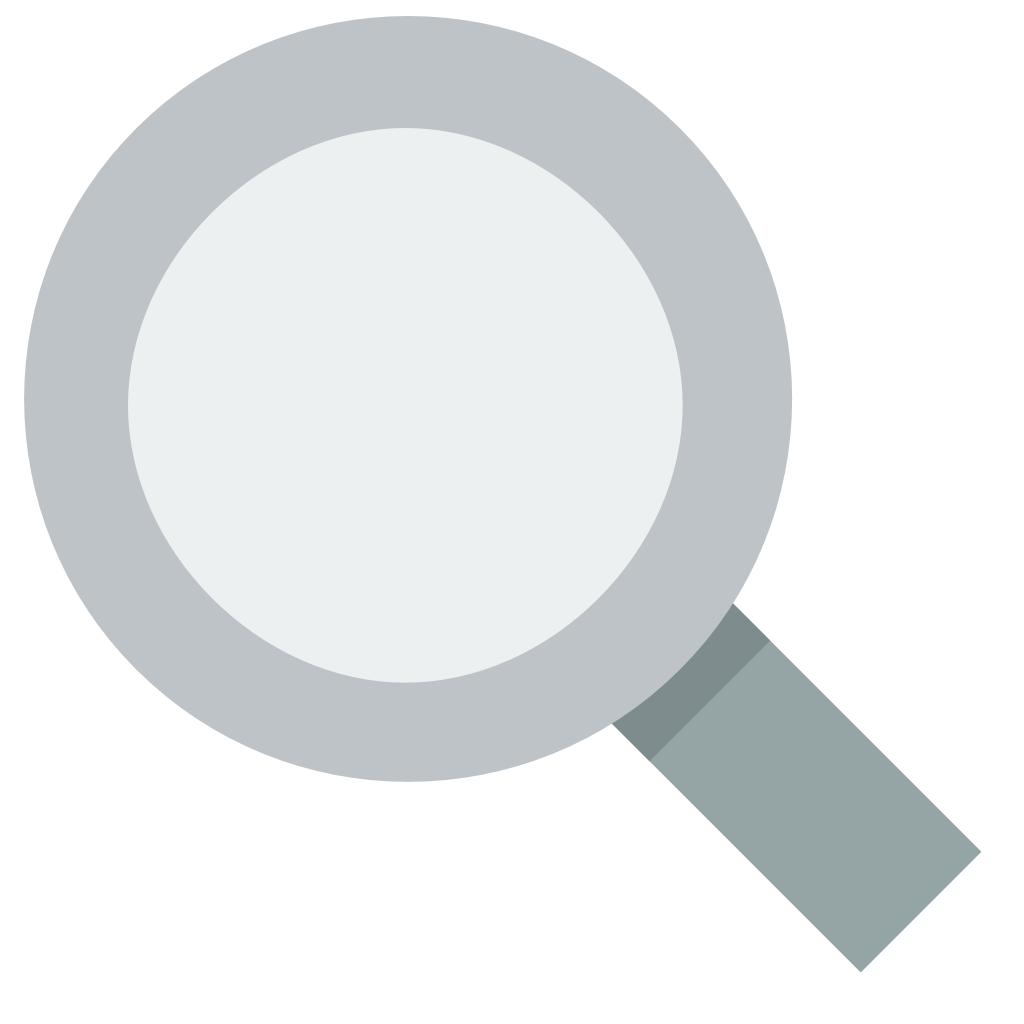
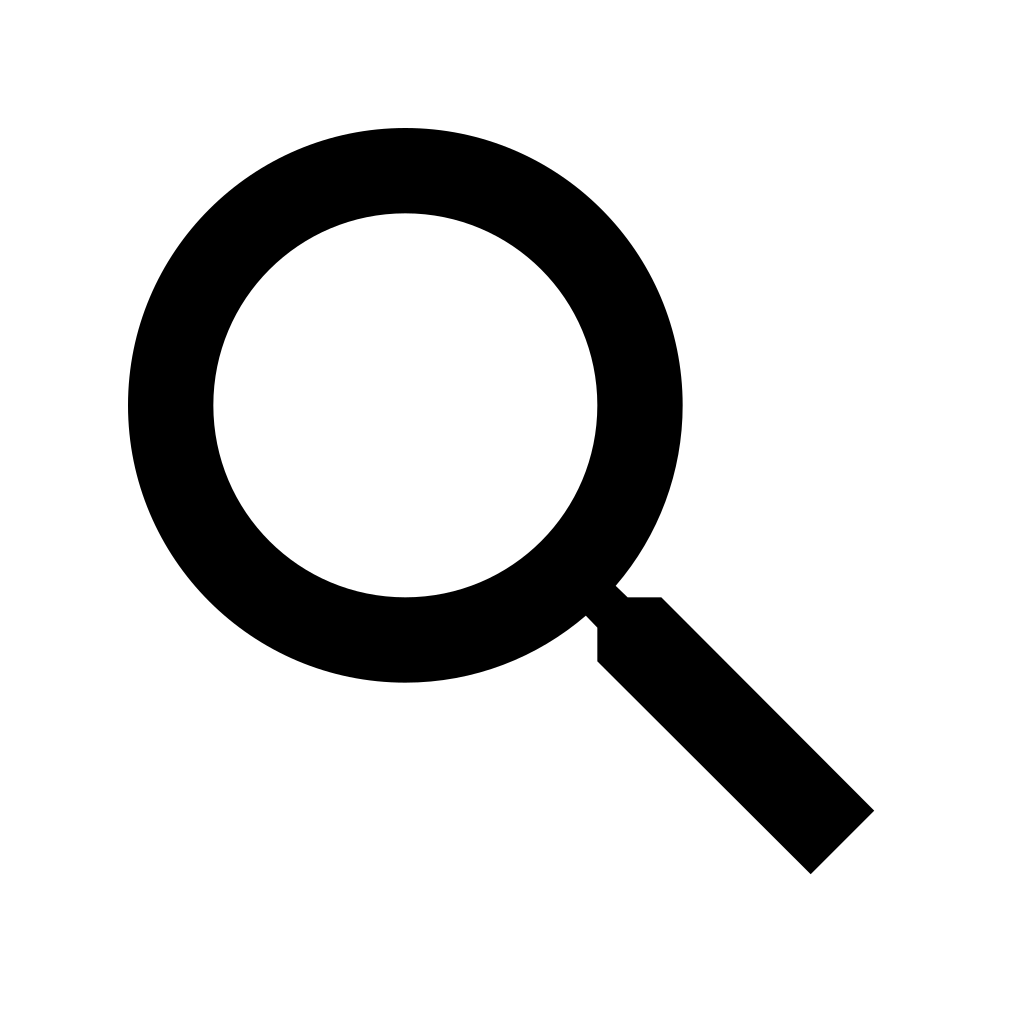
adds new styling to proejcts page

diff --git a/src/components/Post/Project.css b/src/components/Post/Project.css
@@ -1,4 +1,4 @@
-.post {
+.project {
     width: 300px;
     opacity: 0;
     display: flex;
@@ -10,17 +10,17 @@
     margin-bottom: 10px;
 }
 
-.post-img {
+.project-img {
     width: 300px;
 }
 
-.post p {
+.project p {
     padding: 0 20px;
     font-size: 20px;
     line-height: 1.5;
 }
 
-.post-title {
+.project-title {
     display: flex;
     align-items: center;
     gap: 10px;
@@ -29,12 +29,12 @@
 
 }
 
-.post-title h1 {
+.project-title h1 {
     font-size: 35px;
     margin: 0;
 }
 
-.post-title p {
+.project-title p {
     height: 40px;
     width: 40px;
     display: flex;
@@ -47,47 +47,49 @@
     border-radius: 50%;
 }
 
-.post-info {
+.project-info {
     display: flex;
     flex-direction: column;
     gap: 10px;
     margin: 20px 0;
 }
 
-.post-tools {
-    color: #778bb1;
+.project-tools {
+    color: #fff;
     margin: 0 20px;
-    padding: 10px !important;
-    background-color: #dce9ff;
+    padding: 10px 15px !important;
+    background-color: #5ebcffbd;
     border-radius: 15px;
     text-align: justify;
 }
 
-.post-description {
+.project-description {
     height: auto;
     text-align: center;
     margin: 0;
 }
 
-.post-bottom {
+.project-bottom {
     padding-bottom: 20px;
 }
 
-.post-buttons {
+.project-buttons {
     width: 100%;
     display: flex;
+    padding: 0 20px;
     justify-content: center;
     align-items: center;
     gap: 10px;
 }
 
-.post-buttons a {
+.project-buttons a {
+    flex: 1;
+    display: flex;
     text-decoration: none;
-
 }
 
-.post-buttons button {
-    width: 130px;
+.project-buttons button {
+    flex: 1;
     height: 65px;
     display: flex;
     justify-content: center;
@@ -101,76 +103,76 @@
     font-weight: bold;
 }
 
-.post-buttons img {
+.project-buttons img {
     width: 30px;
     height: auto;
 }
 
 @media only screen and (min-width: 360px) {
-    .post {
+    .project {
         width: 320px;
         margin-bottom: 30px;
     }
 
-    .post-img {
+    .project-img {
         width: 320px;
     }
 
-    .post-description {
+    .project-description {
         text-align: justify;
     }
 
-    .post-buttons button {
+    .project-buttons button {
         width: 140px;
     }
 }
 
 @media only screen and (min-width: 450px) {
-    .post {
+    .project {
         width: 400px;
     }
 
-    .post-img {
+    .project-img {
         width: 400px;
     }
 
-    .post-buttons button {
+    .project-buttons button {
         width: 140px;
         height: 65px;
         font-size: 26px;
     }
 
-    .post-buttons img {
+    .project-buttons img {
         width: 30px;
     }
 
-    .post-buttons {
+    .project-buttons {
         gap: 30px
     }
 }
 
 @media only screen and (min-width: 600px) {
-    .post {
+    .project {
         width: 500px;
     }
 
-    .post-img {
+    .project-img {
         width: 500px;
     }
 
-    .post-buttons button {
+    .project-buttons button {
         width: 180px;
         height: 75px;
         font-size: 30px;
     }
 
-    .post-buttons img {
+    .project-buttons img {
         width: 40px;
     }
 }
 
 @media only screen and (min-width: 1160px) {
-    .post-info {
+    .project-info {
         height: 450px;
     }
 }

diff --git a/src/components/Post/Project.jsx b/src/components/Post/Project.jsx
@@ -1,0 +1,33 @@
+import "./Project.css"
+
+import Flare from "../Flare/Flare"
+
+export default function Project({ project, idx }) {
+    return (
+        <section className="project" style={{ animation: `rise 1s forwards ${idx - (.75 * idx)}s` }}>
+            <div className="project-top">
+                <div className="project-title">
+                    <h1 className="purple-text">{project.name}</h1>
+                </div>
+                <img className="project-img" src={require(`../../assets/${project.image}`)} />
+                <Flare side={'inline'} />
+                <div className="project-info">
+                    <p className="project-tools blue">{project.tools}</p>
+                    <p className="project-description">{project.description}</p>
+                </div>
+            </div>
+            <div className="project-bottom">
+                <div className="project-buttons">
+                    {project.live ?
+                        <a href={project.live} target="_blank">
+                            <button className='pink'>Live</button>
+                        </a>
+                        : null}
+                    <a href={project.repo} target="_blank">
+                        <button className='purple'>GitHub</button>
+                    </a>
+                </div>
+            </div>
+        </section>
+    )
+}

diff --git a/src/pages/Projects/Projects.jsx b/src/pages/Projects/Projects.jsx
@@ -1,7 +1,7 @@
 import "./Projects.css"
 import { useState, useEffect } from "react";
 
-import Post from "../../components/Post/Post";
+import Post from "../../components/Post/Project";
 import Flare from "../../components/Flare/Flare";
 import Loading from "../Loading/Loading";
 
@@ -27,7 +27,7 @@ function Projects({ page, setPage }) {
     return (
         <section className="Projects">
             <div className="project-header">
-                <h1 className="pink-text">Projects</h1>
+                <h1 className="purple-text">Projects</h1>
                 <Flare side={'right'} />
             </div>
             <div className="feed">

diff --git a/src/pages/Projects/Projects.css b/src/pages/Projects/Projects.css
@@ -9,13 +9,16 @@
     align-items: center;
     background-color: #fff;
     box-shadow: 0px 2px 2px #00000030;
+    margin: 20px 40px;
     padding: 20px 40px;
-    gap: 10px
+    gap: 10px;
+    border-radius: 15px;
 }
 
 .project-header h1 {
     font-size: 40px;
     margin: 0;
+    text-shadow: 0px 2px 2px #00000040;
 }
 
 .feed {

diff --git a/src/pages/Home/Home.css b/src/pages/Home/Home.css
@@ -45,8 +45,9 @@
 .fake-search {
     width: 20px;
     height: 20px;
-    margin: 0 20px 0 0;
+    margin: 5px 20px 0 0;
     animation: rotate 1s forwards 2.5s;
+    opacity: 40%;
 }
 
 @media only screen and (min-width: 360px) {

diff --git a/README.md b/README.md
@@ -14,7 +14,7 @@ This app utilizes JavaScript, JSON, CSS, React, and Node.js to showcase my caree
 
 ## Acknowledgements
 Thank you to [Wikimedia Commons](https://commons.wikimedia.org/wiki/Main_Page) for providing the following public domain images:
-- [Search icon](https://commons.wikimedia.org/wiki/File:Search-icon.png)
+- [Search icon](https://commons.wikimedia.org/wiki/File:Google_Magnifying_Glass.svg)
 - [Document icon](https://commons.wikimedia.org/wiki/File:Document_(89521)_-_The_Noun_Project.svg)
 - [Pin icon](https://commons.wikimedia.org/wiki/File:Pin_point_location_SVG_black.svg)
 - [Coding icon](https://commons.wikimedia.org/wiki/File:Icon_(80027)_-_The_Noun_Project.svg)
